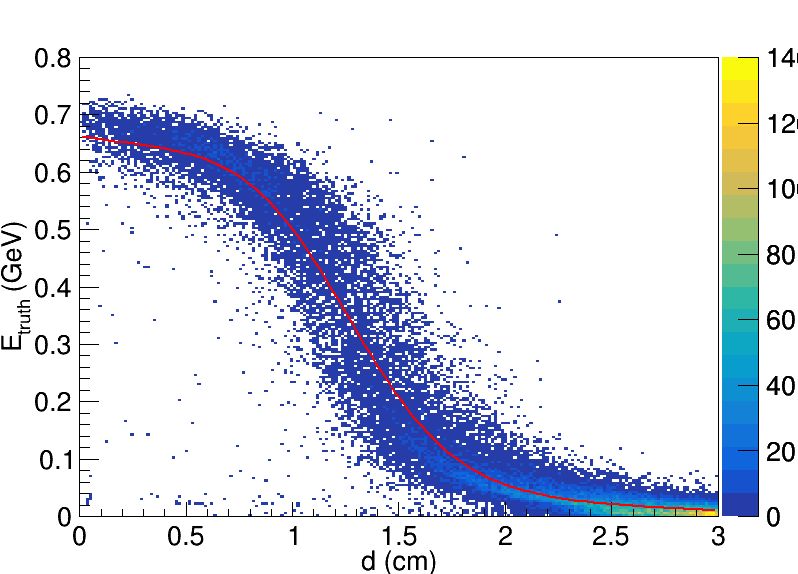
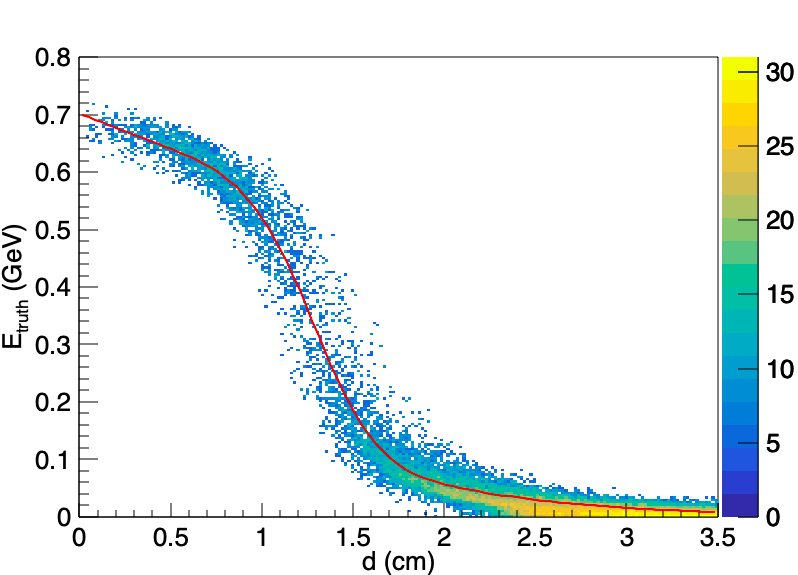
Backup: 2021年 1月29日 星期五 00时00分38秒 CST

diff --git a/sniff_comb.C b/sniff_comb.C
@@ -2,7 +2,7 @@ void mode_comb_TO_2(int NCut = 5);
 void mode_comb_TO_3(int NCut = 5);
 void mode_comb_TO_4(int NCut = 5);
 int sniff_comb(){
-    mode_comb_TO_2(8);
+    mode_comb_TO_2(5);
     //mode_comb_TO_3(5);
     //mode_comb_TO_4(5);
 	return 0;
